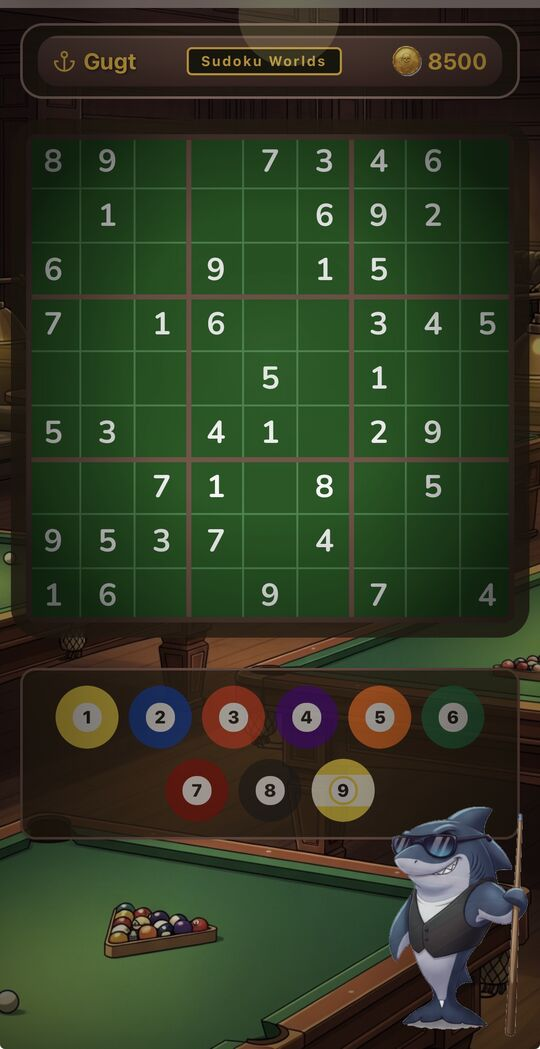
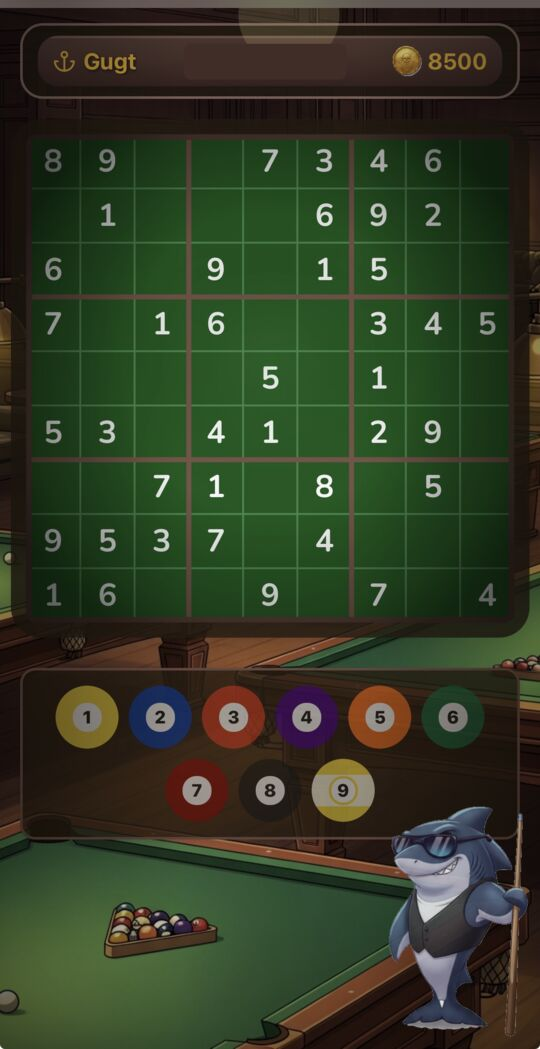
Add files via upload

Changed region(s): [[0.3259, 0.0305, 0.6519, 0.0915]]

diff --git a/index.html b/index.html
@@ -622,7 +622,7 @@
       <p class="app-desc">A card platform bringing your favorite classic card games together in one polished, elegant collection.</p>
       <span class="app-badge badge-live">Now on iOS &amp; Android</span>
       <div class="platform-links">
-        <a href="https://apps.apple.com/ca/developer/brent-hamilton/id6779312493" class="btn-download" target="_blank" rel="noopener">App Store</a>
+        <a href="https://apps.apple.com/ca/app/id6801581939" class="btn-download" target="_blank" rel="noopener">App Store</a>
         <a href="https://play.google.com/store/apps/details?id=com.brainfreezestudios.cardvault" class="btn-download" target="_blank" rel="noopener">Google Play</a>
       </div>
     </div>
